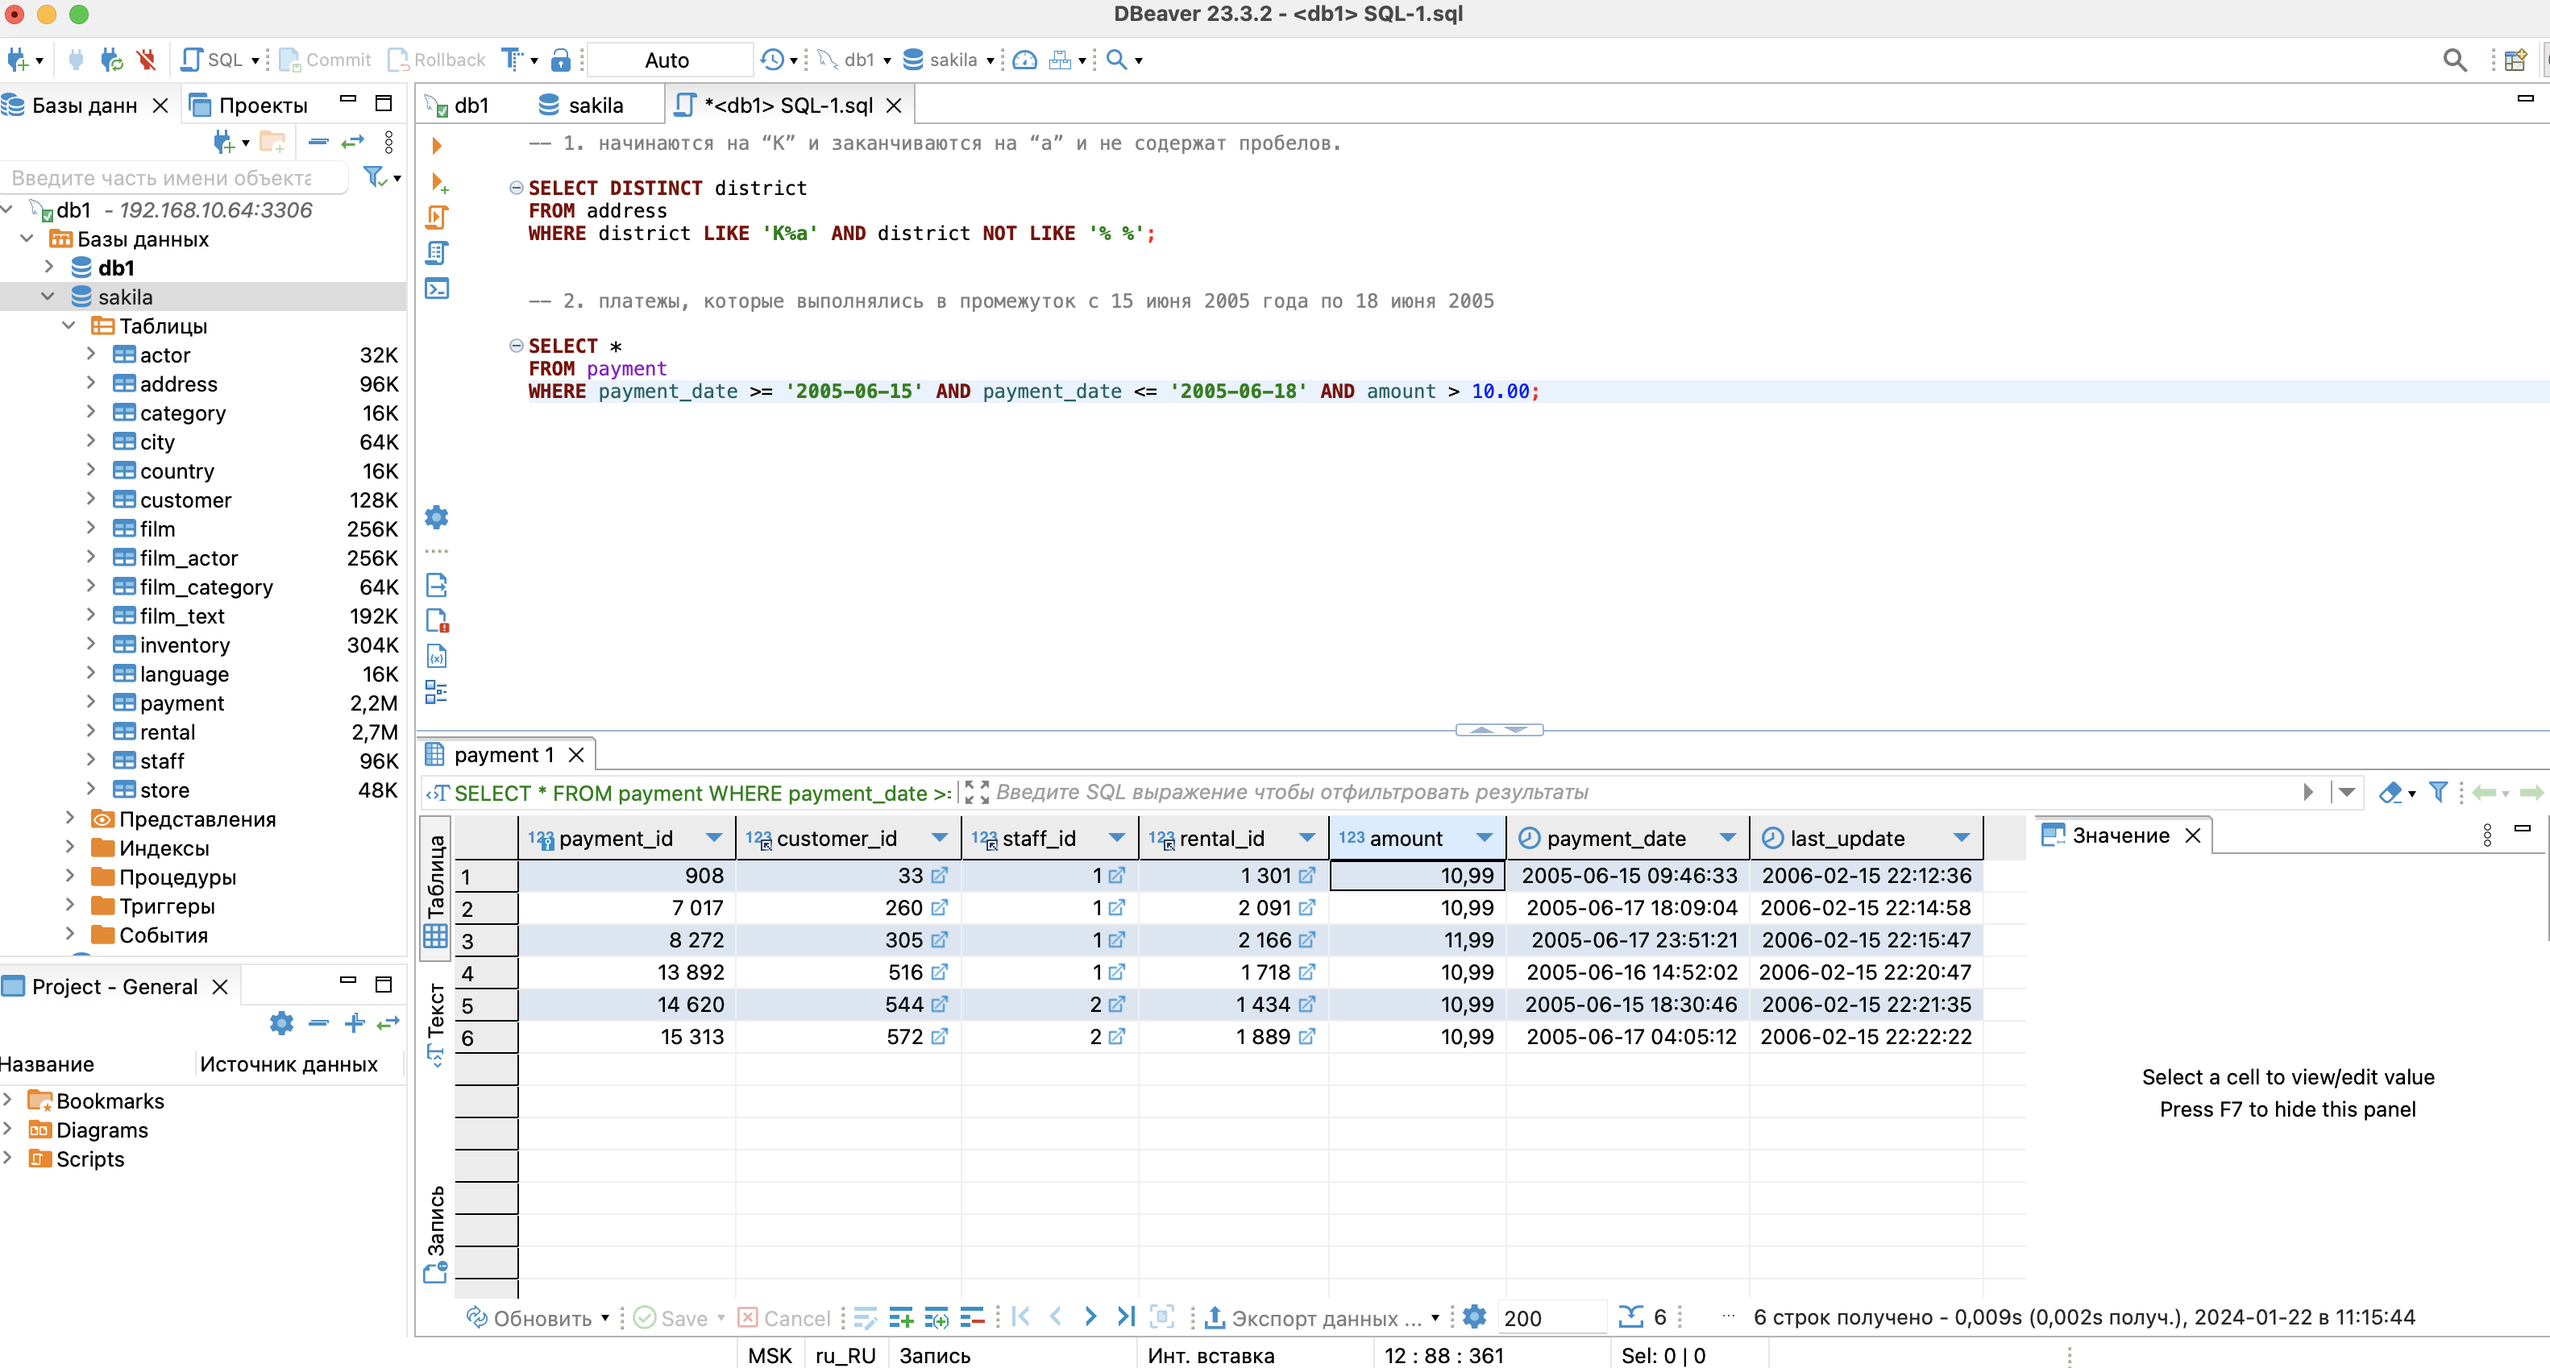
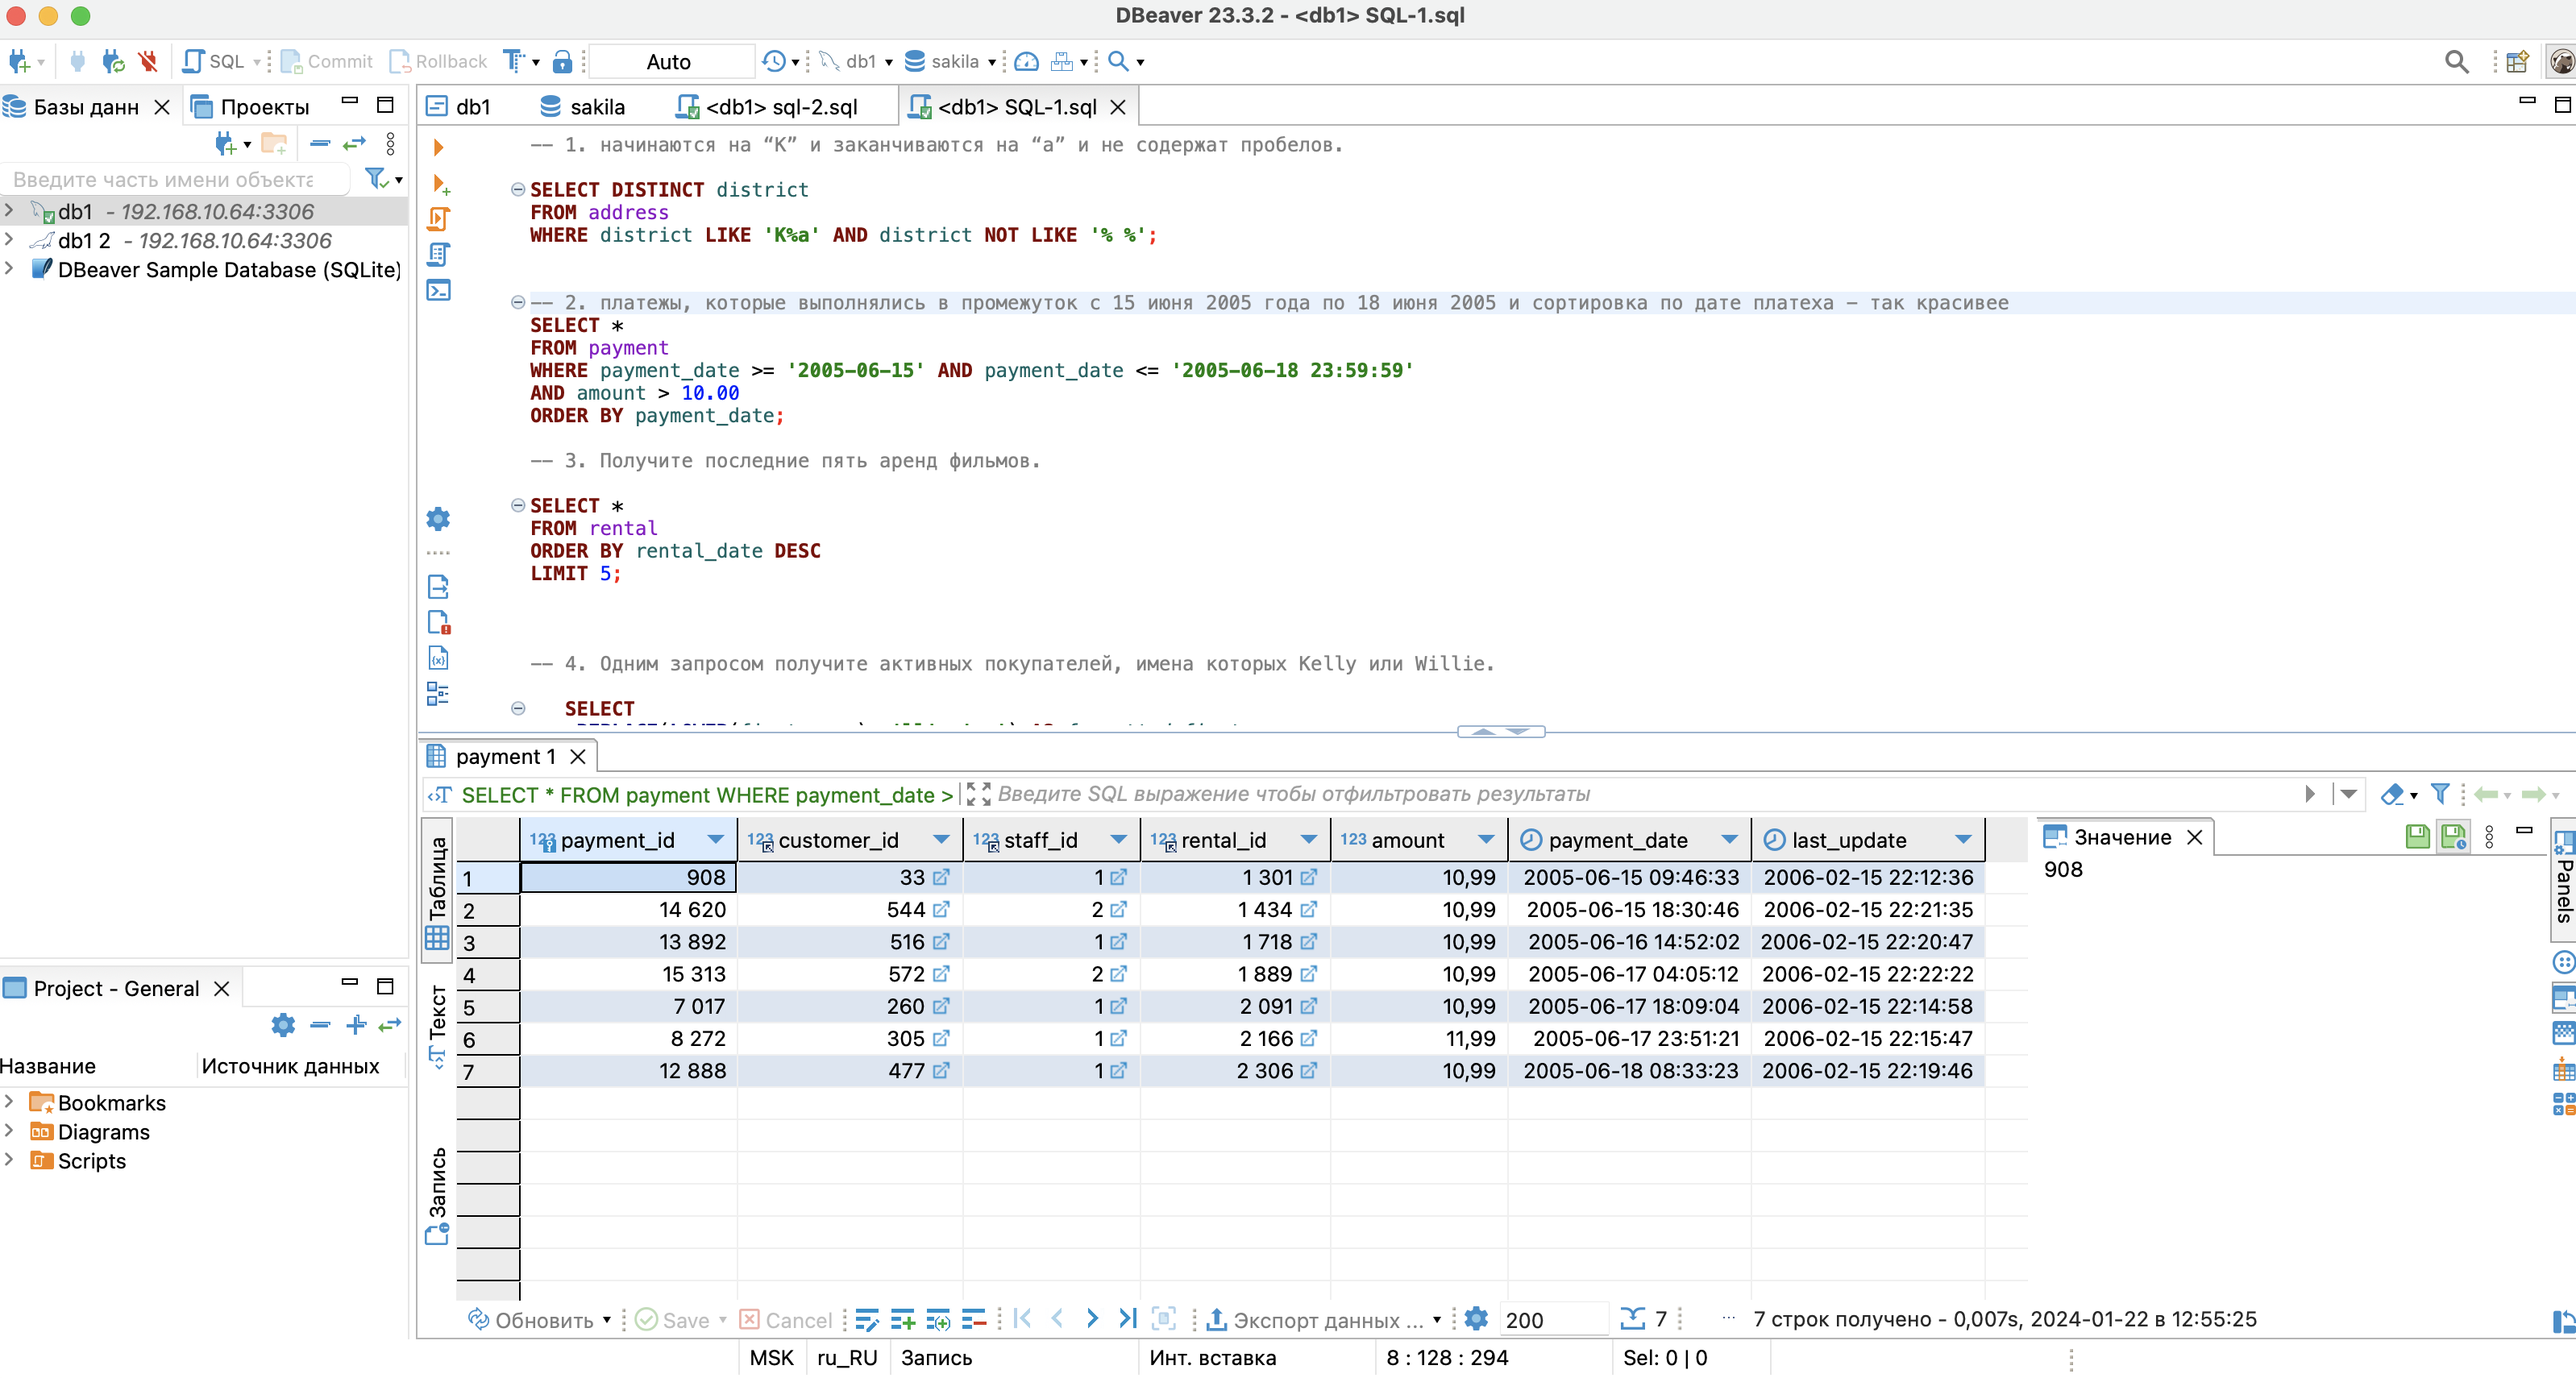
edit

diff --git a/README.md b/README.md
@@ -23,17 +23,6 @@
 - все буквы в фамилии и имени из верхнего регистра переведите в нижний регистр,
 - замените буквы 'll' в именах на 'pp'.
 
-## Дополнительные задания (со звёздочкой*)
-Эти задания дополнительные, то есть не обязательные к выполнению, и никак не повлияют на получение вами зачёта по этому домашнему заданию. Вы можете их выполнить, если хотите глубже шире разобраться в материале.
-
-### Задание 5*
-
-Выведите Email каждого покупателя, разделив значение Email на две отдельных колонки: в первой колонке должно быть значение, указанное до @, во второй — значение, указанное после @.
-
-### Задание 6*
-
-Доработайте запрос из предыдущего задания, скорректируйте значения в новых колонках: первая буква должна быть заглавной, остальные — строчными.
-
 
 ## Решение:
 
@@ -47,11 +36,13 @@ FROM address
 WHERE district LIKE 'K%a' AND district NOT LIKE '% %';
 
 
--- 2. платежы, которые выполнялись в промежуток с 15 июня 2005 года по 18 июня 2005
-
+-- 2. платежы, которые выполнялись в промежуток с 15 июня 2005 года по 18 июня 2005 и сортировка по дате платеха - так красивее
 SELECT *
 FROM payment
-WHERE payment_date >= '2005-06-15' AND payment_date <= '2005-06-18' AND amount > 10.00;
+WHERE payment_date >= '2005-06-15' AND payment_date <= '2005-06-18 23:59:59'
+AND amount > 10.00
+ORDER BY payment_date; 
+ 
 
 -- 3. Получите последние пять аренд фильмов.
 
@@ -74,6 +65,7 @@ WHERE
     
 ```
 ![решение 1](/files/1.png)
+Исправлено
 ![решение 2](/files/2.png)
 ![решение 3](/files/3.png)
 ![решение 4](/files/4.png)
